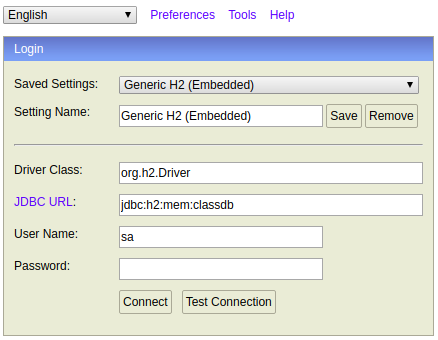
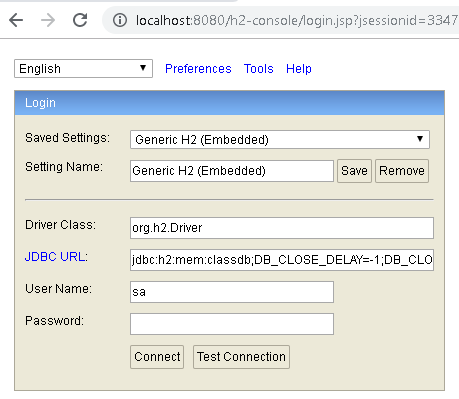
DOCS Actualización de documentación de servidor

diff --git a/README.md b/README.md
@@ -4,211 +4,222 @@ Servidor de apoyo para Obligatorio 2019 de la asignatura "Programación de Aps. 
 **Carrera**: Analista en Informática / Universidad de la Empresa. 
 
 ## Ejecución  (Requiere java 8)
-El jar generado en la compilación queda con el nombre "class-server-0.0.1-SNAPSHOT.jar" en la ruta target/. Su ejecución se hace con:   
-`$ java -jar class-server-0.0.1-SNAPSHOT.jar --server.port=XXXX`   
-Donde la opción *server.port* es opcional y se puede usar para especificar el puerto de publicación de la aplicación. El puerto por default es 8080.
+El jar generado en la compilación queda con el nombre "erp-server-moviex-0.0.1-SNAPSHOT.jar" en la ruta target/. Su ejecución se hace con:   
+`$ java -jar erp-server-moviex-0.0.1-SNAPSHOT.jar --server.port=XXXX`   
+El puerto por default es 8080. Si se desea cambiar se puede usar la opción *--server.port=XXXX* para especificar el puerto de publicación de la aplicación. 
 
 ## Recursos disponibles
-**Clientes**:   
-*URL*: http://localhost:8080/estudiante/   
-**Departamentos**:   
-*URL*: http://localhost:8080/departamento/
+**Películas**:   
+*URL*: http://localhost:8080/pelicula/   
+**Géneros**:   
+*URL*: http://localhost:8080/genero/
 **Usuario**:   
 *URL*: http://localhost:8080/usuario/
 
-
 ## Usuarios y roles
-Se tienen dos roles "**estudiante**" y "**profesor**" con usuarios pre cargados.      
+Se tienen dos roles "**ROLE_ADMIN**" y "**ROLE_USER**" con usuarios pre cargados.      
 ___
-Con rol "**estudiante**":    
+Con rol "**ROLE_USER**":    
 
-*Usuario*: estudiante   
-*Contraseña*: estudiante   
+*Usuario*: user
+*Contraseña*: user
 
-*Usuario*: est   
-*Contaseña*: est   
+*Usuario*: usr
+*Contaseña*: usr
 ___    
-Con rol "**profesor**":   
+Con rol "**ROLE_ADMIN**":   
     
-*Usuario*: profesor   
-*Constraseña*: profesor
+*Usuario*: admin
+*Constraseña*: admin
    
-*Usuario*: prof   
-*Contraseña*: prof       
+*Usuario*: adm
+*Contraseña*: adm
 
 ## Seguridad y recursos
 El acceso a los recursos está protegido por autenticación HTTP Basic. Las URL y métodos permitidos por rol se describen a continuación:
 
-*URL*: /estudiante/**   
-*Métodos HTTP permitidos*: POST(profesor), DELETE(profesor), PUT(profesor), PATCH(profesor), GET(profesor, estudiante)
+*URL*: /pelicula/**   
+*Métodos HTTP permitidos*: POST(ROLE_ADMIN), DELETE(ROLE_ADMIN), PUT(ROLE_ADMIN), GET(ROLE_ADMIN, ROLE_USER)
 
-*URL*: /profesor/**   
-*Métodos HTTP permitidos*: POST(profesor), DELETE(profesor), PUT(profesor), PATCH(profesor), PUT(profesor) 
-
-*URL*: /departamento/**   
-*Métodos HTTP permitidos*: GET(profesor, estudiante)
+*URL*: /genero/**   
+*Métodos HTTP permitidos*: GET(ROLE_ADMIN, ROLE_USER)
 
 *URL*: /usuario/**   
-*Métodos HTTP permitidos*: GET(profesor, estudiante)   
+*Métodos HTTP permitidos*: GET(ROLE_ADMIN, ROLE_USER)  
 
 ## Tipos de peticiones soportadas
 ### GET (Select de registro)
-*Ejemplo de petición con usuario estudiante*:
+*Ejemplo de petición con rol ROLE_ADMIN*:
 
-```
-curl -X GET \
-  http://localhost:8080/estudiante/1 \
-  -H 'authorization: Basic ZXN0dWRpYW50ZTplc3R1ZGlhbnRl'  
+```kotlin
+  @Test
+  @Throws(IOException::class)
+  fun givenAuthUser_whenGetUsuario_thenGetResponseOk() {
+    val client = OkHttpClient()
+    val request = Request.Builder()
+        .url("http://localhost:8080/usuario")
+        .header("Authorization", Credentials.basic("adm", "adm"))
+        .build()
+    val rolExpected = "ROLE_ADMIN"
+
+    val response = client.newCall(request).execute()
+
+    assertSoftly {
+      it.assertThat(response.code).isEqualTo(200)
+      it.assertThat(response.body!!.string()).contains(rolExpected)
+    }
+    response.close()
+  }
 ```
 *Respuesta*:   
 Código HTTP: **200** OK   
 Body (Objeto consultado):  
 
-```
+```json
 {
-  "nombre" : "Adan D.",
-  "telefono" : "092123123",
-  "email" : "estudiante@class.com",
-  "direccion" : "Cerro Largo",
-  "_links" : {
-    "self" : {
-      "href" : "http://localhost:8080/estudiante/1"
-    },
-    "estudiante" : {
-      "href" : "http://localhost:8080/estudiante/1"
-    },
-    "departamento" : {
-      "href" : "http://localhost:8080/estudiante/1/departamento"
+  "password": null,
+  "username": "admin",
+  "authorities": [
+    {
+      "authority": "ROLE_ADMIN"
     }
-  }
+  ],
+  "accountNonExpired": true,
+  "accountNonLocked": true,
+  "credentialsNonExpired": true,
+  "enabled": true
 }
 ```
 
 ### POST (Insert de registro)
-*Ejemplo de petición con usuario profesor*:   
+*Ejemplo de petición con rol ROLE_ADMIN*:   
 
-```
-curl -X POST \
-  http://localhost:8080/estudiante \
-  -H 'authorization: Basic cHJvZmVzb3I6cHJvZmVzb3I=' \
-  -H 'content-type: application/json' \
-  -d '{
-    "nombre": "Carlos3000",
-    "telefono": "092651651",
-    "email": "carlos2@test.com",
-    "direccion": "Mi Casa",
-    "departamento":"http://localhost:8080/departamento/3"
-}'
+```kotlin
+  @Test
+  @Throws(IOException::class)
+  fun givenAdmin_whenPostPelicula_thenGetResponse201() {
+    val client = OkHttpClient()
+    val JSON = "application/json; charset=utf-8".toMediaTypeOrNull()
+    val json = """
+      {"director": "Carlos3000",
+      "titulo": "Test 123",
+      "fecha_estreno": "2019-12-12",
+      "poster": "https://as.com/meristation/imagenes/2019/03/19/noticias/1553025770_364735_1553025920_sumario_normal2.jpg",
+      "genero":"http://localhost:8080/genero/2"}""".trimIndent()
+    val body = json.toRequestBody(JSON)
+    val request = Request.Builder()
+        .url("http://localhost:8080/pelicula")
+        .header("Authorization", Credentials.basic("adm", "adm"))
+        .post(body).build()
+    val response = client.newCall(request).execute()
+
+    assertThat(response.code).isEqualTo(201)
+    response.close()
+  }
 ```
 *Respuesta*:   
 Código HTTP: **201** Created   
 Body (Objeto creado):  
 
-```
+```json
 {
-  "nombre" : "Carlos3000",
-  "telefono" : "092651651",
-  "email" : "carlos2@test.com",
-  "direccion" : "Mi Casa",
-  "_links" : {
-    "self" : {
-      "href" : "http://localhost:8080/estudiante/2"
-    },
-    "estudiante" : {
-      "href" : "http://localhost:8080/estudiante/2"
-    },
-    "departamento" : {
-      "href" : "http://localhost:8080/estudiante/2/departamento"
+  "titulo" : "Test 123",
+  "director" : "Carlos3000",
+  "fechaEstreno" : "2019-10-25",
+  "poster" : "https://as.com/meristation/imagenes/2019/03/19/noticias/1553025770_364735_1553025920_sumario_normal2.jpg",
+  "_embedded" : {
+    "genero" : {
+      "nombre" : "Aventura"
     }
-  }
-}
-```
-
-### PATCH (Update de campo puntual)
-*Ejemplo de petición con usuario profesor*:   
-
-```
-curl -X PATCH \
-  http://localhost:8080/estudiante/2 \
-  -H 'authorization: Basic cHJvZmVzb3I6cHJvZmVzb3I=' \
-  -H 'content-type: application/json' \
-  -d '{
-    "nombre": "Carlos2"
-}'
-```
-
-*Respuesta*:   
-Código HTTP: **200** OK     
-Body (Objeto actualizado):   
-  
-```
-{
-  "nombre" : "Carlos2",
-  "telefono" : "092651651",
-  "email" : "carlos2@test.com",
-  "direccion" : "Mi Casa",
+  },
   "_links" : {
     "self" : {
-      "href" : "http://localhost:8080/estudiante/2"
+      "href" : "http://localhost:8080/pelicula/4"
     },
-    "estudiante" : {
-      "href" : "http://localhost:8080/estudiante/2"
+    "pelicula" : {
+      "href" : "http://localhost:8080/pelicula/4"
     },
-    "departamento" : {
-      "href" : "http://localhost:8080/estudiante/2/departamento"
+    "genero" : {
+      "href" : "http://localhost:8080/pelicula/4/genero"
     }
   }
 }
 ```
 
 ### PUT (Update de todo un registro)
-*Ejemplo de petición con usuario profesor*:   
+*Ejemplo de petición con rol ROLE_ADMIN*:   
 
-```
-curl -X PUT \
-  http://localhost:8080/estudiante/1 \
-  -H 'authorization: Basic cHJvZmVzb3I6cHJvZmVzb3I=' \
-  -H 'content-type: application/json' \
-  -d '{
-    "nombre": "Carlos3000",
-    "telefono": "092651651",
-    "email": "carlos2@test.com",
-    "direccion": "Mi Casa",
-    "departamento":"http://localhost:8080/departamento/3"
-}'
+```kotlin
+  @Test
+  @Throws(IOException::class)
+  fun givenAdmin_whenPutPelicula_thenGetResponse204() {
+    val client = OkHttpClient()
+    val JSON = "application/json; charset=utf-8".toMediaTypeOrNull()
+    val json = """
+      {"director": "null",
+      "titulo": "Test 123",
+      "fechaEstreno": "2019-12-10",
+      "poster": "https://as.com/meristation/imagenes/2019/03/19/noticias/1553025770_364735_1553025920_sumario_normal2.jpg",
+      "genero":"http://localhost:8080/genero/2"}""".trimIndent()
+    val body = json.toRequestBody(JSON)
+    val request = Request.Builder()
+        .url("http://localhost:8080/pelicula/1")
+        .header("Authorization", Credentials.basic("adm", "adm"))
+        .put(body).build()
+    val response = client.newCall(request).execute()
+
+    assertThat(response.code).isEqualTo(204)
+    response.close()
+  }
 ```
 
 *Respuesta*:   
 Código HTTP: **200** OK     
 Body (Objeto actualizado):   
 
-```
+```json
 {
-  "nombre" : "Carlos3000",
-  "telefono" : "092651651",
-  "email" : "carlos2@test.com",
-  "direccion" : "Mi Casa",
+  "titulo" : "Test 123",
+  "director" : "null",
+  "fechaEstreno" : "2019-12-10",
+  "poster" : "https://as.com/meristation/imagenes/2019/03/19/noticias/1553025770_364735_1553025920_sumario_normal2.jpg",
+  "_embedded" : {
+    "genero" : {
+      "nombre" : "Sci-Fi"
+    }
+  },
   "_links" : {
     "self" : {
-      "href" : "http://localhost:8080/estudiante/1"
+      "href" : "http://localhost:8080/pelicula/1"
     },
-    "estudiante" : {
-      "href" : "http://localhost:8080/estudiante/1"
+    "pelicula" : {
+      "href" : "http://localhost:8080/pelicula/1"
     },
-    "departamento" : {
-      "href" : "http://localhost:8080/estudiante/1/departamento"
+    "genero" : {
+      "href" : "http://localhost:8080/pelicula/1/genero"
     }
   }
 }
 ```
 
 ### DELETE (Borrado de registro)
-*Ejemplo de petición con usuario profesor*:   
+*Ejemplo de petición con usuario ROLE_ADMIN*:   
 
-```
-curl -X DELETE \
-  http://localhost:8080/estudiante/1 \
-  -H 'authorization: Basic cHJvZmVzb3I6cHJvZmVzb3I=' 
+```kotlin
+  @Test
+  @Throws(IOException::class)
+  fun givenAdmin_whenDeletePelicula_thenGetResponse204() {
+    val client = OkHttpClient()
+    val request = Request.Builder()
+        .url("http://localhost:8080/pelicula/1")
+        .header("Authorization", Credentials.basic("adm", "adm"))
+        .delete().build()
+
+    val response = client.newCall(request).execute()
+
+    assertThat(response.code).isEqualTo(204)
+    response.close()
+  }
 ```
 
 *Respuesta*:   
@@ -225,8 +236,8 @@ Una vez ejecutada la aplicación podra consultar las siguientes utilidades embeb
 1. **HAL Browser**: Permite explorar los endpoint del servidor a través de navegación.  
 *URL Acceso*: [http://localhost:8080/browser/index.html#/](http://localhost:8080/browser/index.html#/)
 Para acceder a los endpoints protegidos con HTTP Basic deberá agregar en los "Custom Request Headers" el valor:   
-Authorization: Basic cHJvZmVzb3I6cHJvZmVzb3I=    
-Donde "cHJvZmVzb3I6cHJvZmVzb3I=" es el Base64 de profesor:profesor.        
+Authorization: Basic YWRtaW46YWRtaW4=    
+Donde "YWRtaW46YWRtaW4="" es el Base64 de admin:admin.        
 ![](HalBrowser.png)  
 Figura 1. Captura de Hal Browser
    
@@ -234,19 +245,10 @@ Figura 1. Captura de Hal Browser
 *URL Acceso*: [http://localhost:8080/h2-console/](http://localhost:8080/h2-console/)   
 **Parámetros de conexión:**   
 *Driver*: org.h2.Driver   
-*JDBC URL*: jdbc:h2:mem:classdb;DB_CLOSE_DELAY=-1;DB_CLOSE_ON_EXIT=FALSE   
+*JDBC URL*: jdbc:h2:mem:classdb;DB_CLOSE_DELAY=-1;DB_CLOSE_ON_EXIT=FALSE  
 *User Name*: sa   
 *Password*:   
-![](H2ConsoleLogin.png)   
-Figura 2. Login H2 Console   
-![](H2ConsoleManager.png)   
-Figura 3. Manager H2 Console   
-
-
-## Código fuente
-https://github.com/earth001/Ejercicios-spring-boot/tree/master/class-server
-
-## Compilación
-Para generar el artefacto de la aplicación a partir del código fuente se requiere ejecutar el siguiente comando en la raíz:   
-`$ mvn clean install`   
-Requiere Java 8.
+![](H2ConsoleLogin.png)
+Figura 2. Login H2 Console
+![](H2ConsoleManager.png)
+Figura 3. Manager H2 Console
